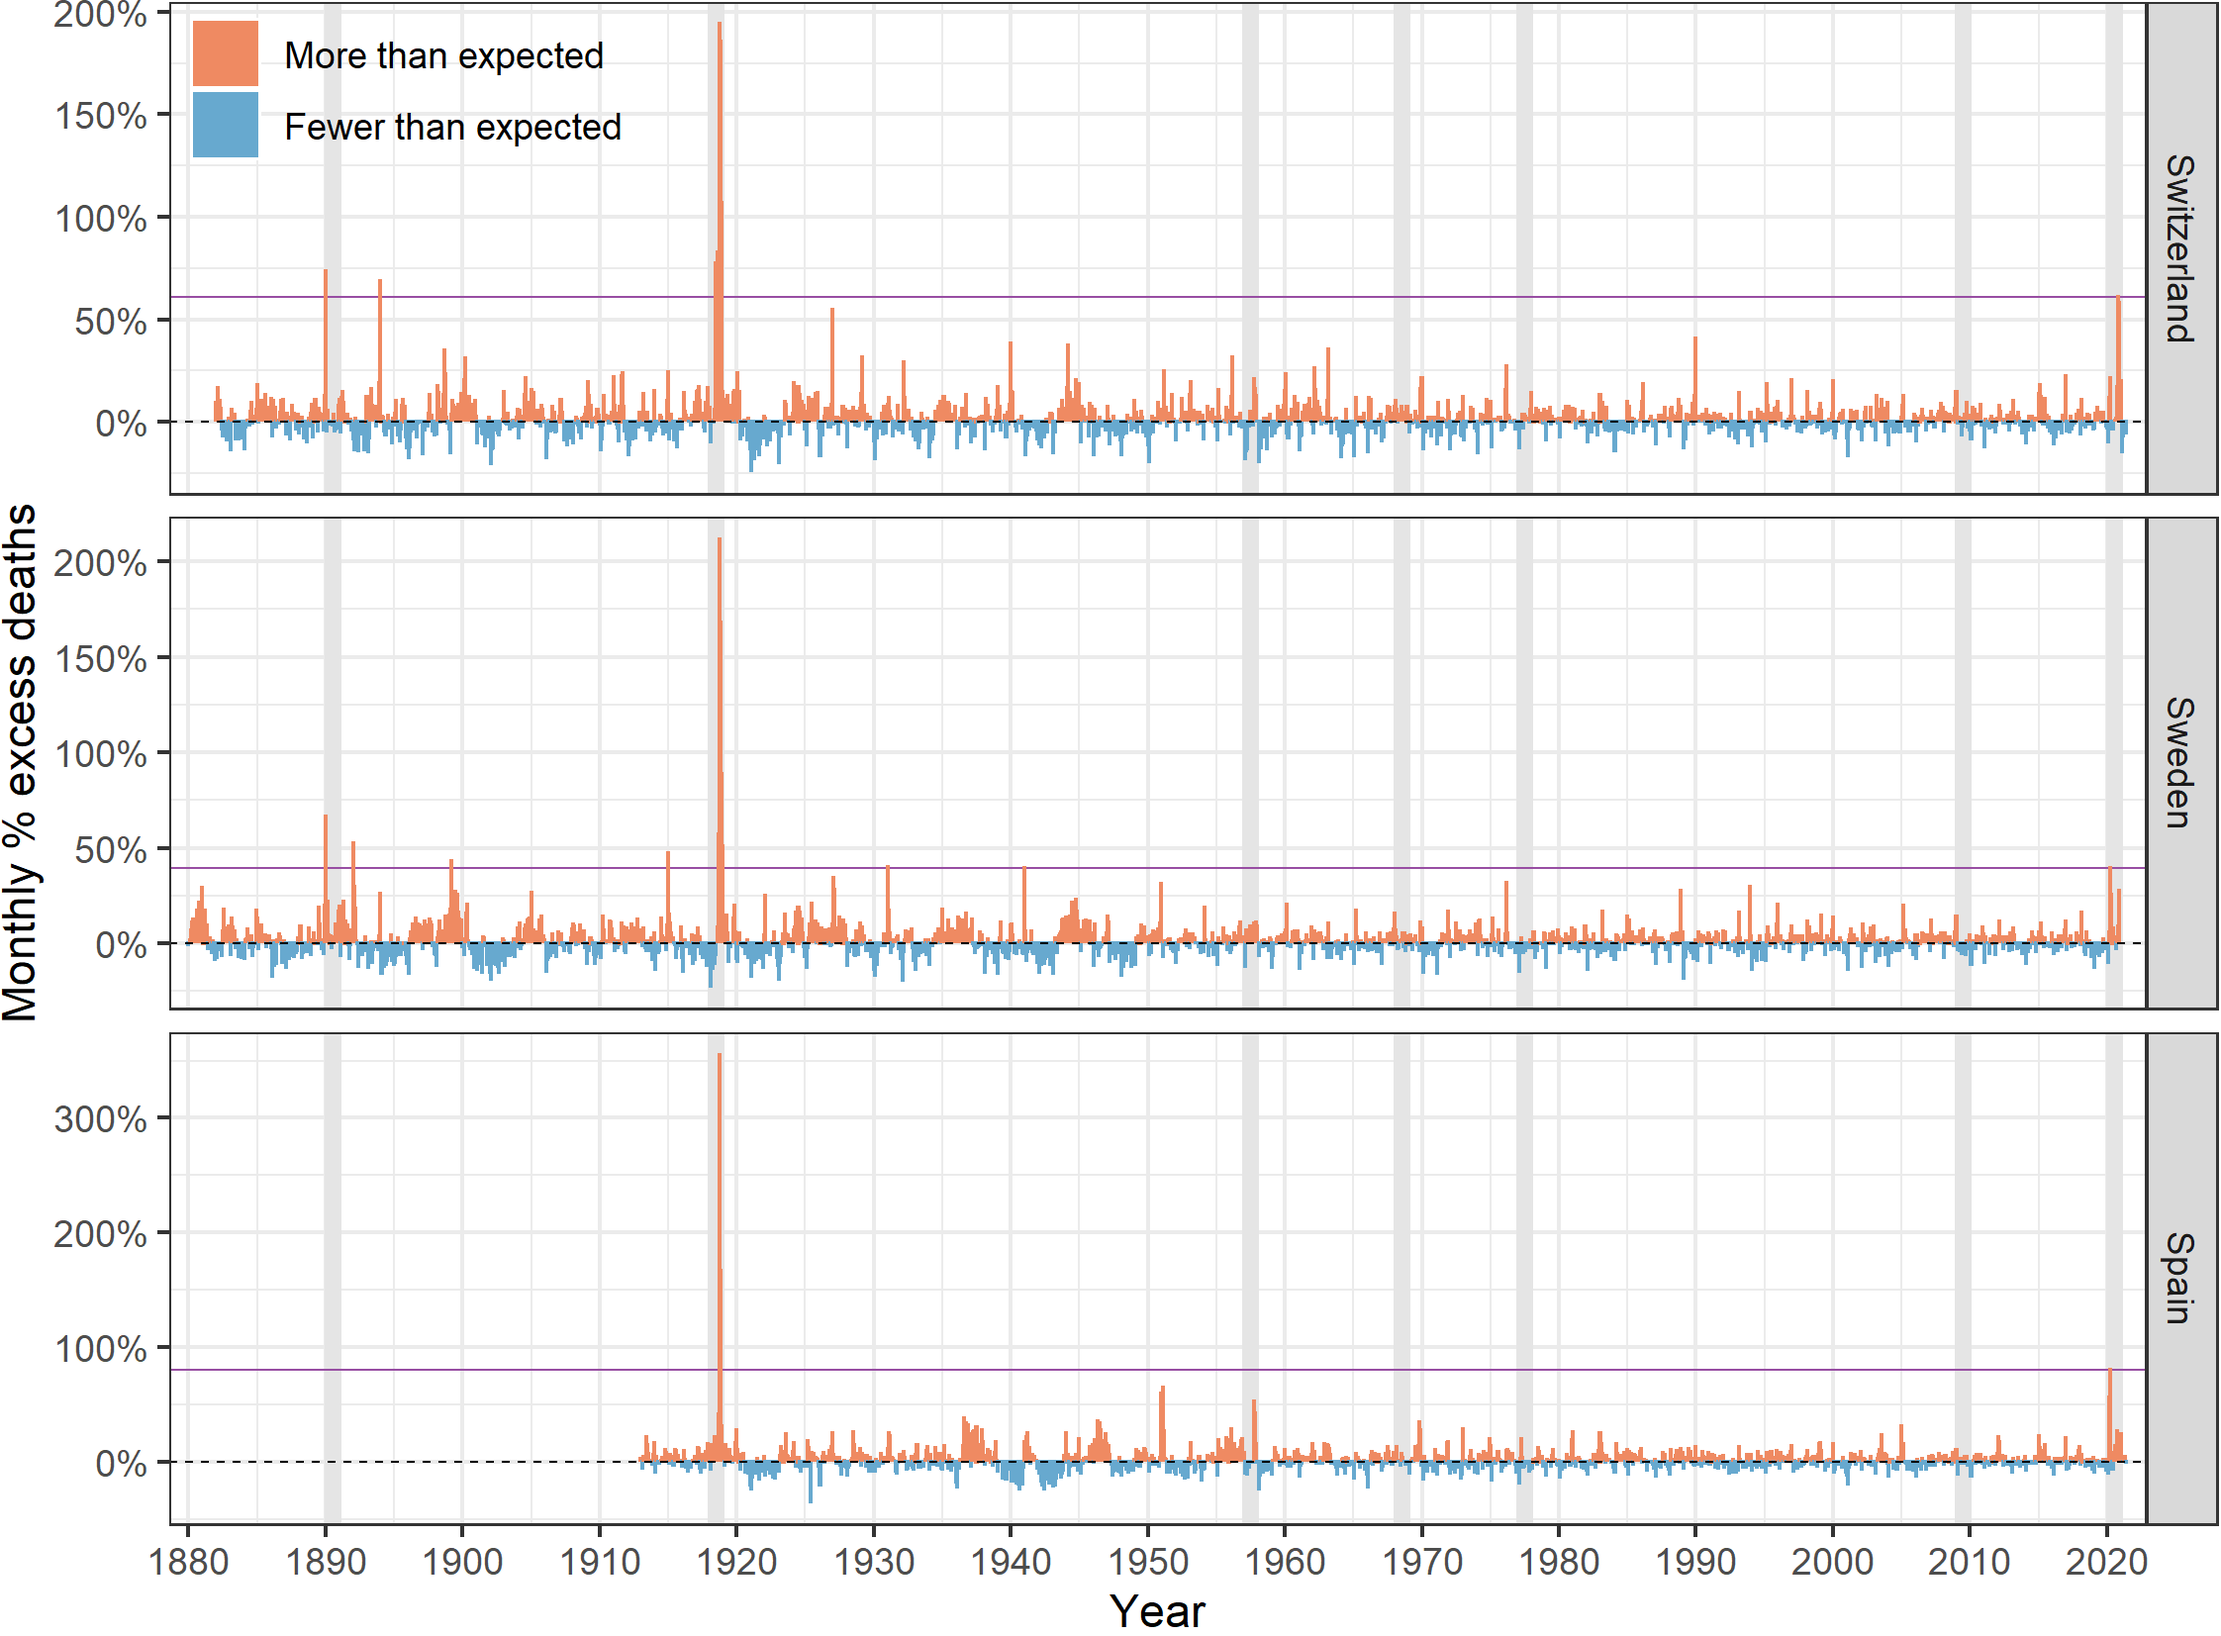
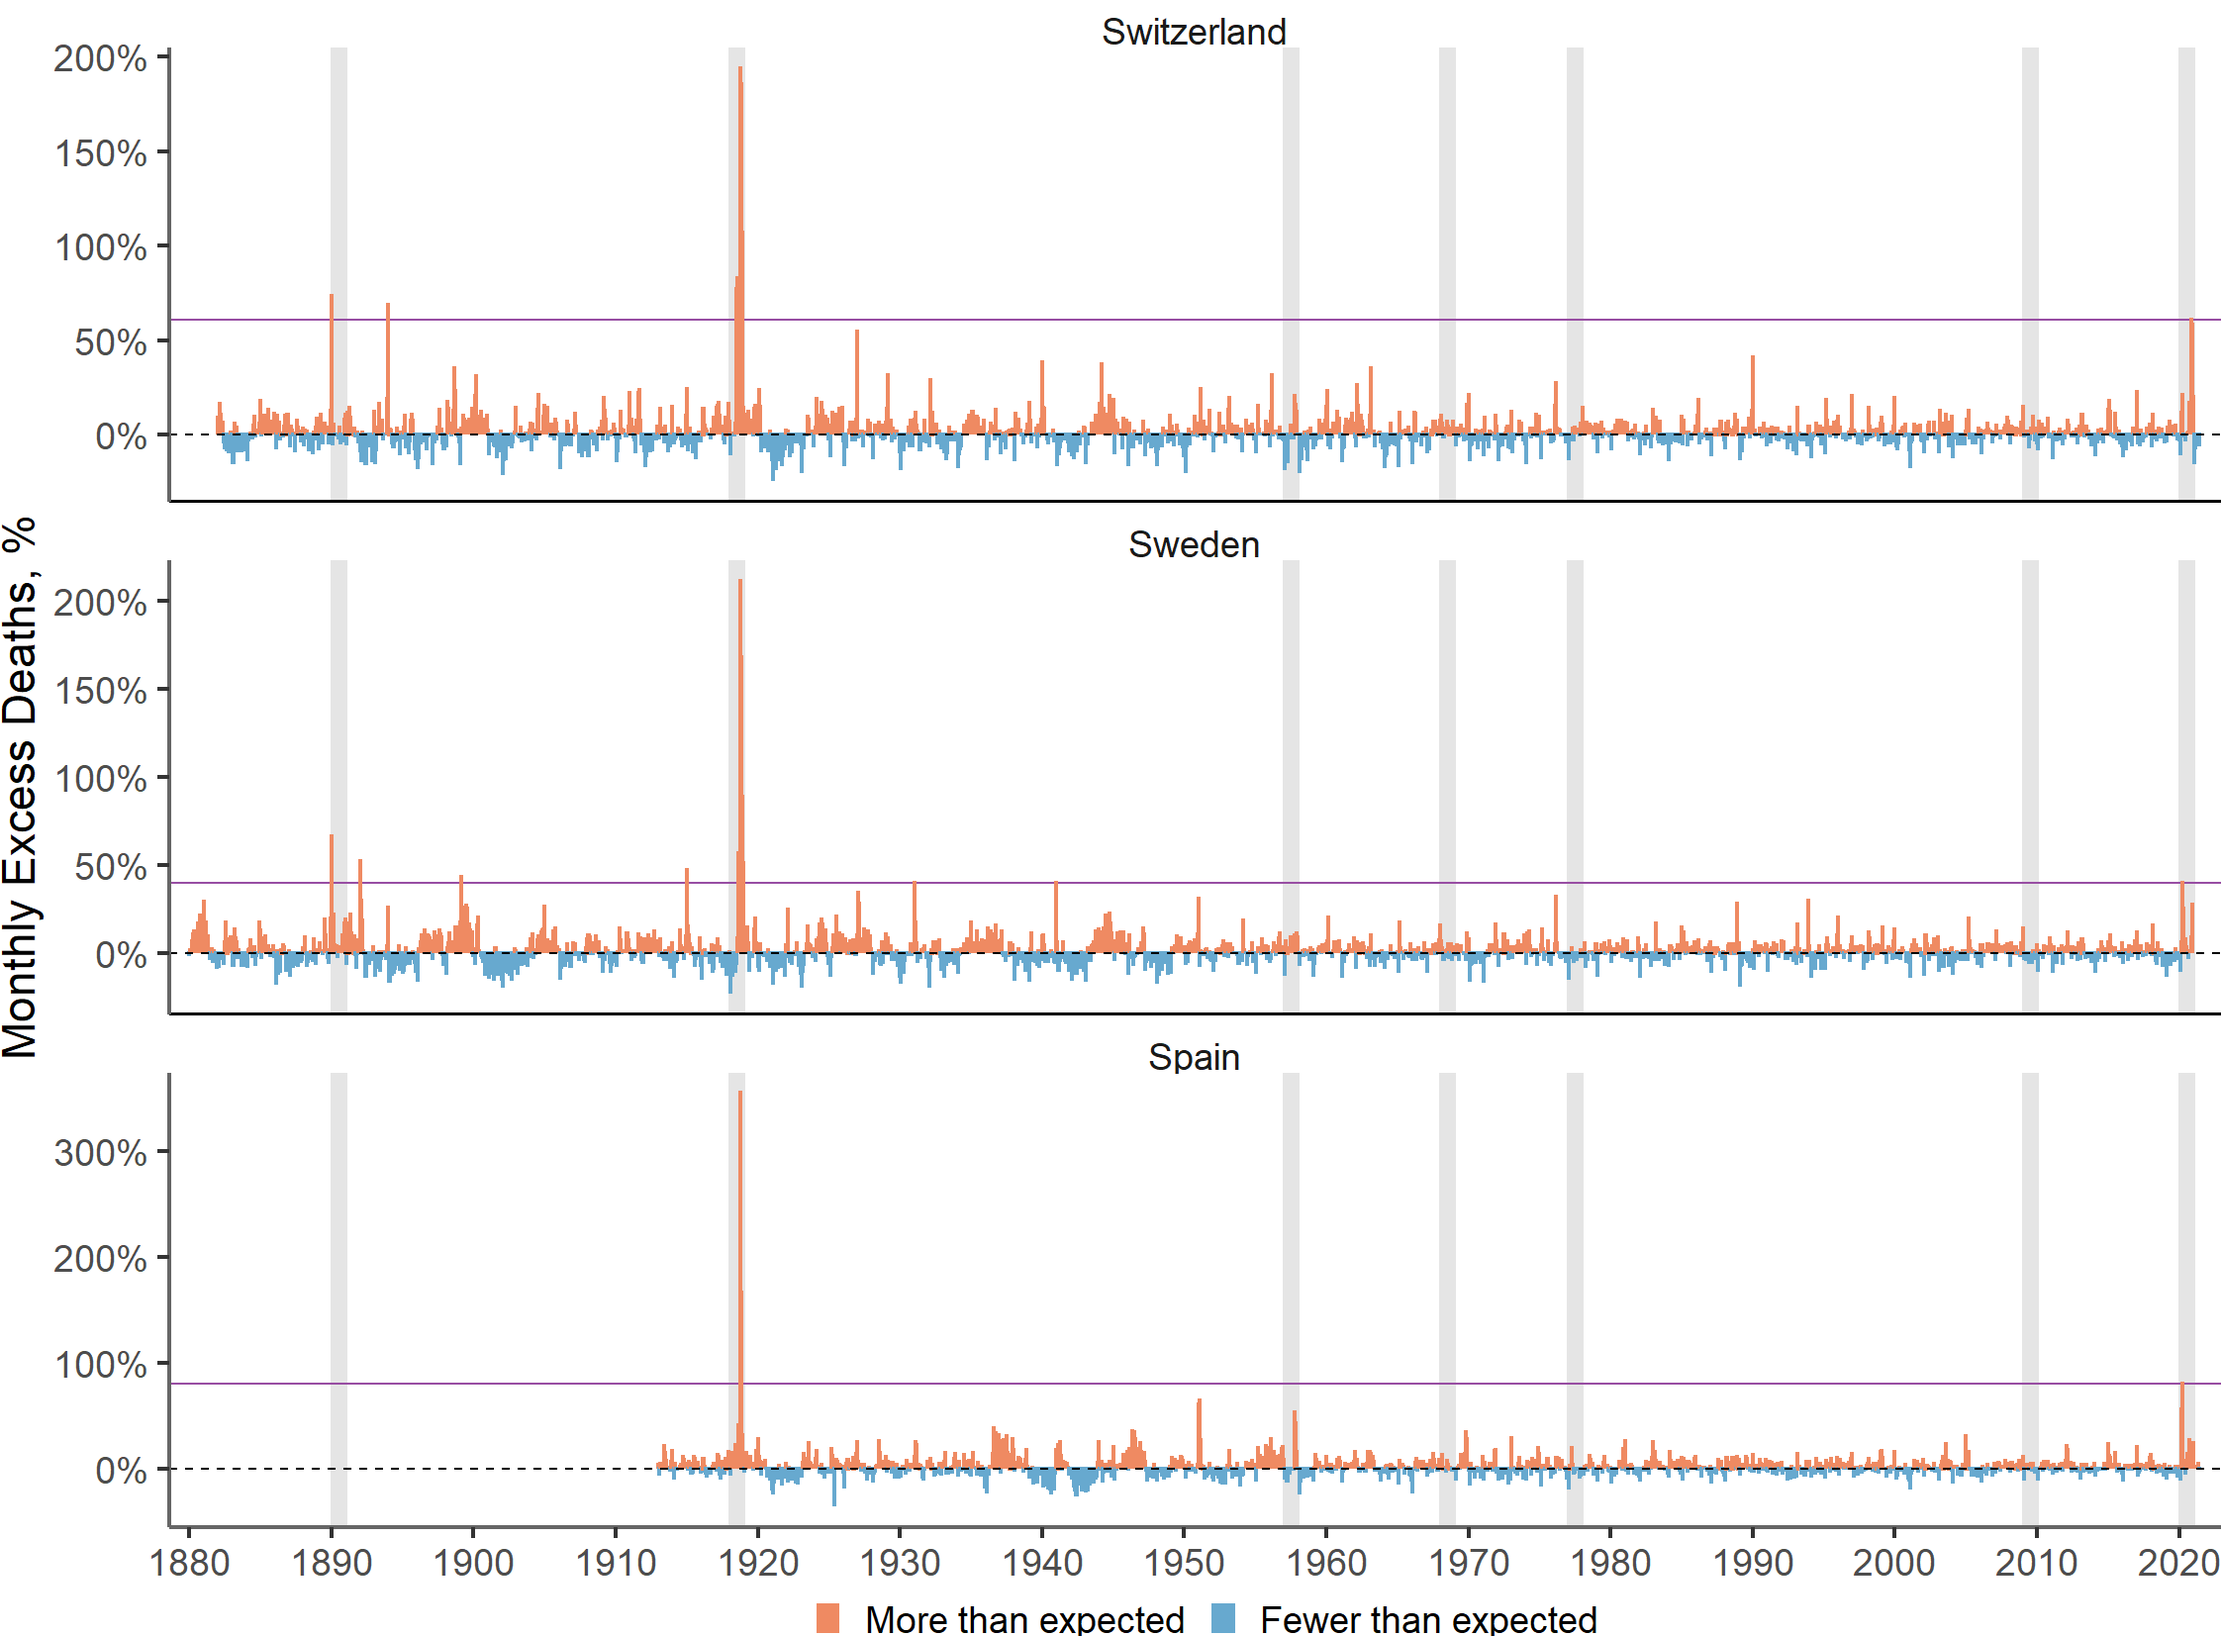
link and figure to paper now

diff --git a/content/project/covid/index.md b/content/project/covid/index.md
@@ -5,7 +5,7 @@ categories:
 - epidemiology
 - mortality
 - Switzerland
-date: "2021-10-18"
+date: "2022-01-06"
 draft: false
 excerpt: Work on the societal impact of SARS-CoV-2 & COVID-19.
 featured: true
@@ -37,9 +37,9 @@ When the [Swiss-SEP index](../swisssep/) was created I could have never imagined
 
 ## Historical trends in excess mortality
 
-![Monthly excess (figure 1 from paper)](excess.png)
+![Monthly % excess (figure 1 from paper)](excess.png)
 
-[Excess mortality](https://ourworldindata.org/excess-mortality-covid) is an extremely useful measure that helps in quantification of the impact of significant events on the health of population. We used over 100 years of data to look at the patterns of excess mortality in three countries. We found that during the COVID-19 pandemic in 2020-21 Spain, Sweden, and Switzerland recorded their highest monthly excess all-cause mortality levels since the 1918 influenza pandemic. You can read more about our findings in a preprint [here](https://doi.org/10.1101/2021.08.12.21261825). Additional materials are available from project's [website](https://rpanczak.github.io/ISPM_excess-mortality/).  
+[Excess mortality](https://ourworldindata.org/excess-mortality-covid) is an extremely useful measure that helps in quantification of the impact of significant events on the health of population. We used over 100 years of data to look at the patterns of excess mortality in three countries. Using counterfactual thinking in Bayesian framework we showed that during the COVID-19 pandemic in 2020-21 Spain, Sweden, and Switzerland recorded their highest monthly excess all-cause mortality levels since the 1918 influenza pandemic. You can read more about our findings in a paper [here](https://doi.org/10.7326/M21-3824). Additional materials are available from project's [website](https://rpanczak.github.io/ISPM_excess-mortality/).  
 
 ## Spatial patterns of excess mortality
 
